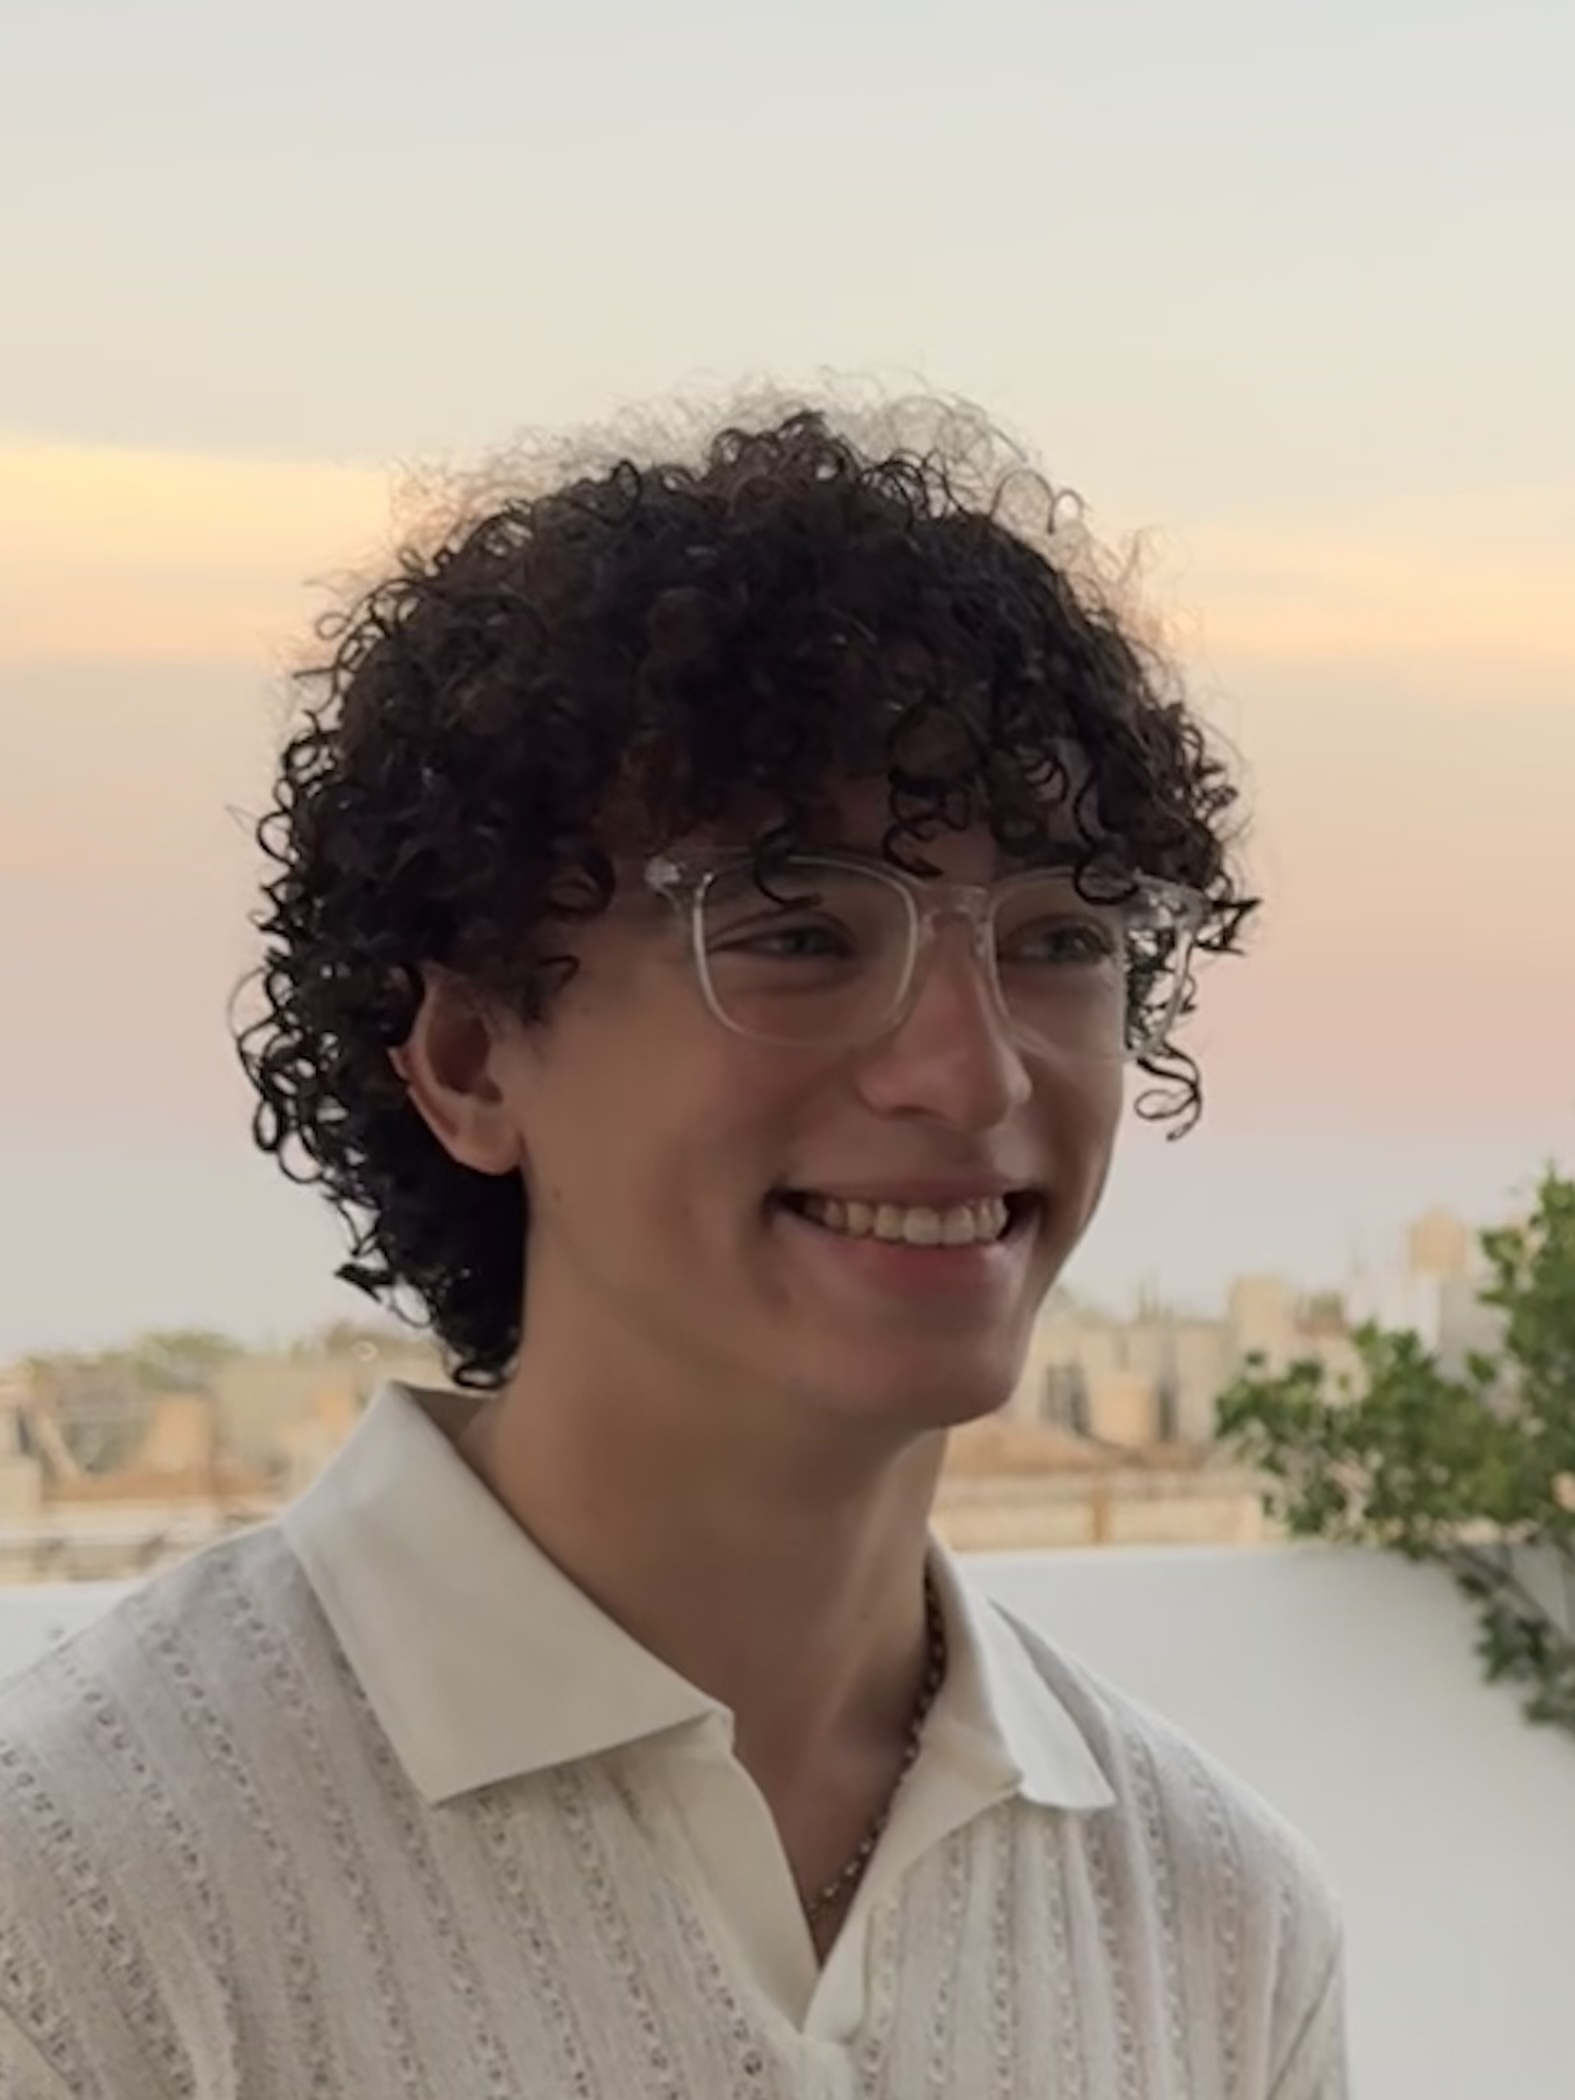
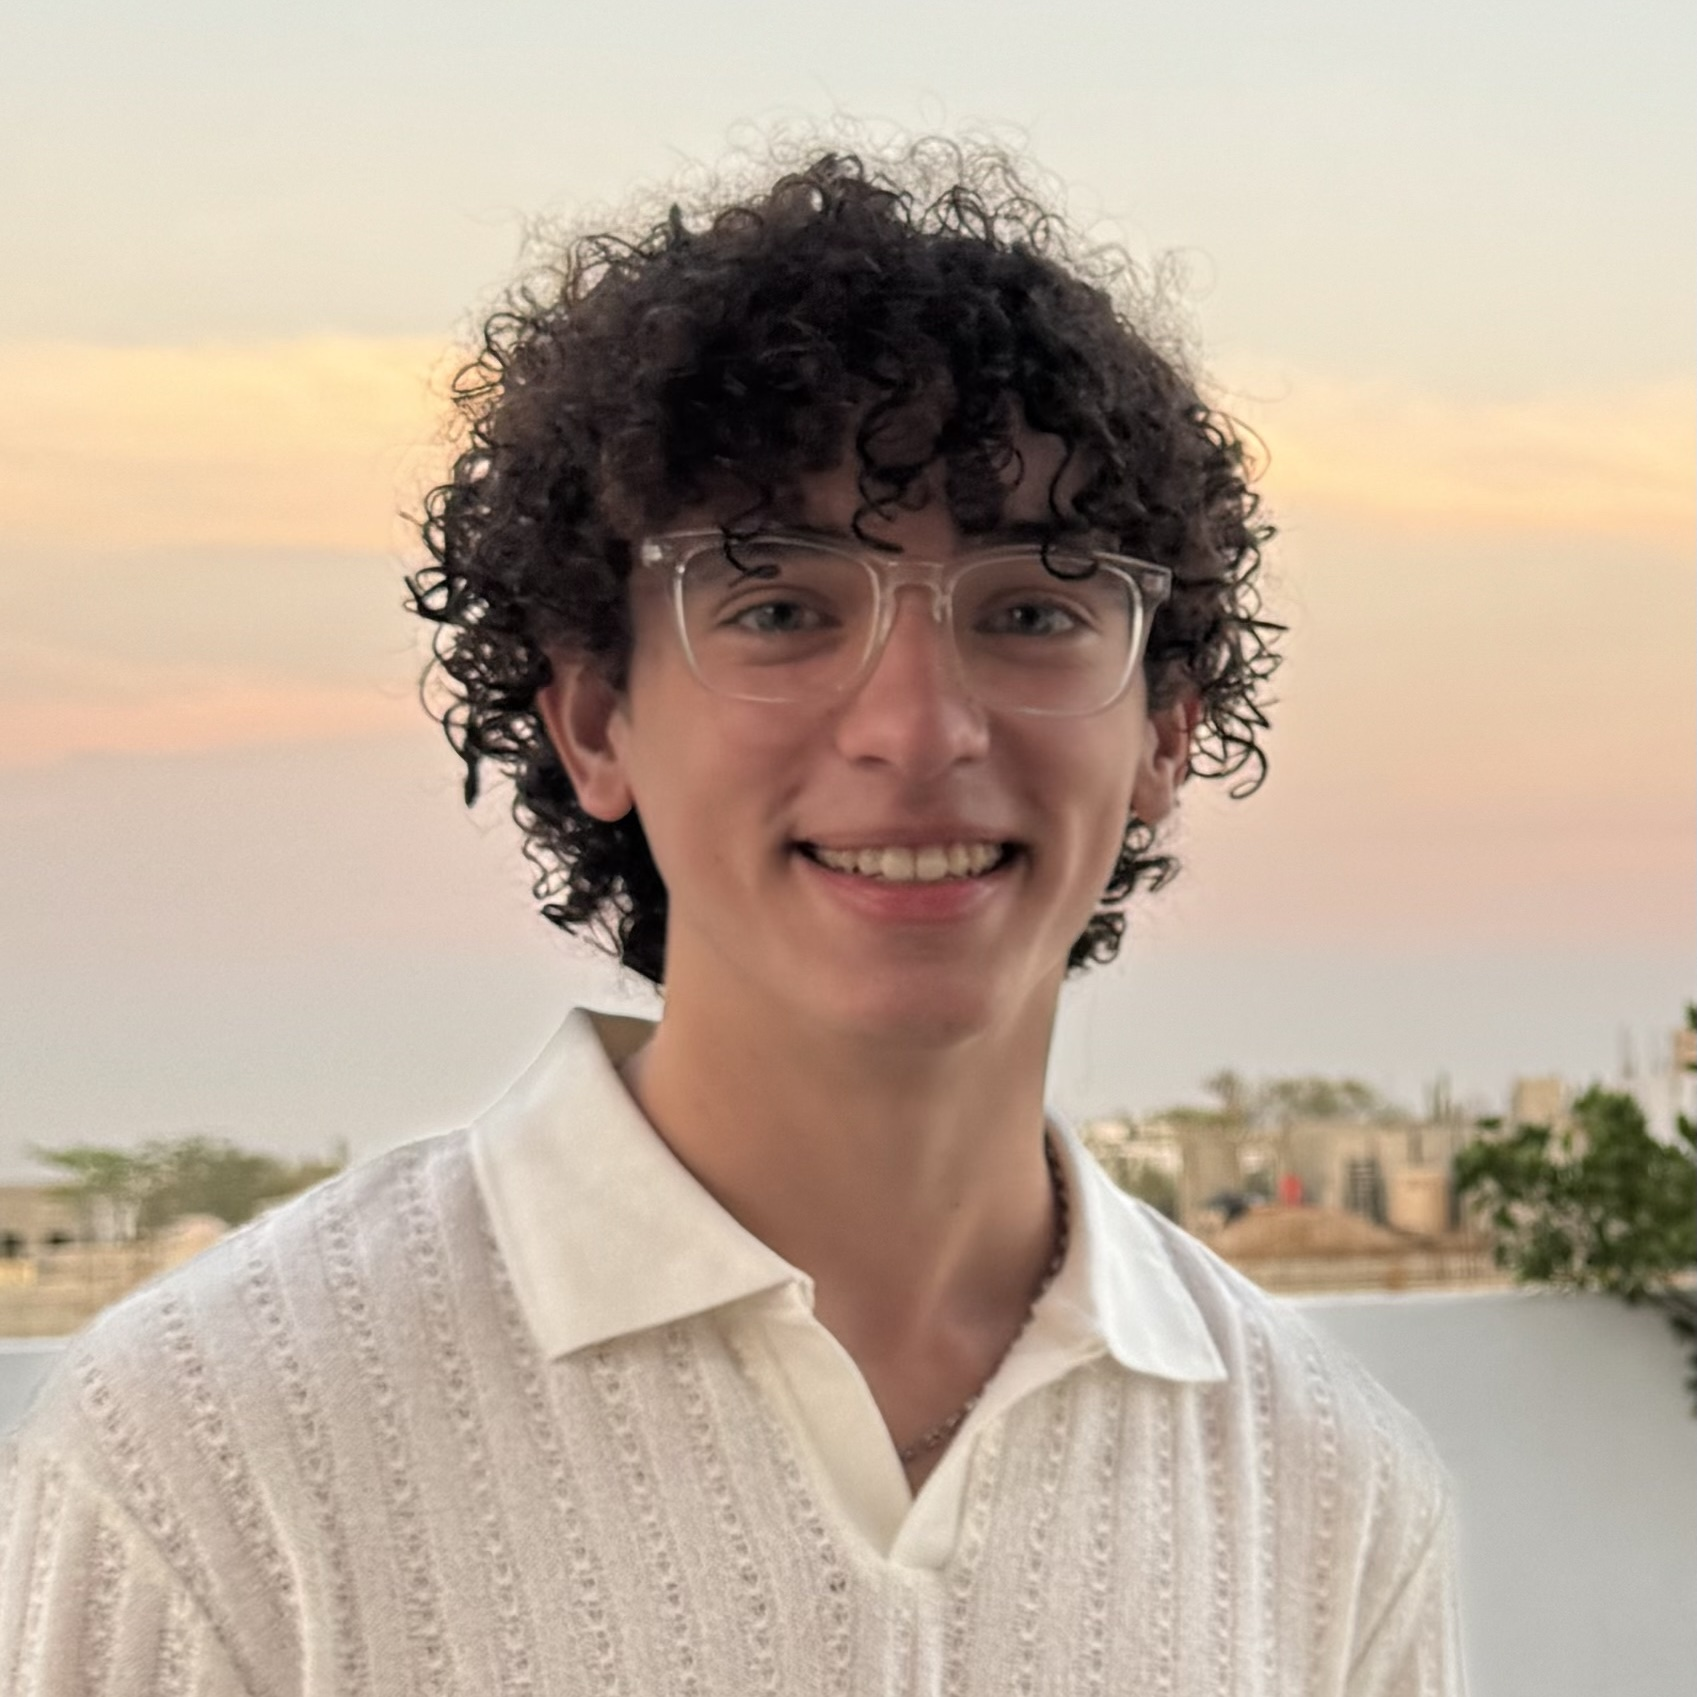
Added more text to the 'About Me', fixed the picture to make it circular, added the image and text for 'Research', and got rid of all the 'Learn More' buttons

diff --git a/index.html b/index.html
@@ -45,12 +45,22 @@
 										<header class="major">
 											<h2>Hi There!</h2>
 										</header>
-										<p>I am Diego Miura, a 2nd year at Yale University studying Astrophysics, with Certificates in 
-											Data Science and Energy Studies.
-										</p>
-										<ul class="actions">
+										<p>I am Diego Miura, a 2nd year at Yale University studying Astrophysics, with Certificates in Data Science and Energy Studies.</p>
+											
+										<p>I am currently doing near-infrared spectroscopy of high-redshift Fermi blazars using Hβ and Mg II λ2800 lines. 
+											My previous project involved spectroscopy of variable z < 1.5 AGN, using their properties such as mass and 
+											brightness to study the black hole-host galaxy mass evolution.</p>
+										
+										<p>This summer, I will be working with the DiRAC Institute at the University of Washington to find anomalous and 
+											rare objects using machine learning in large astronomical datasets.</p>
+										
+										<p>Beyond my research, I serve as a Project Manager for Elmseed Consulting and as the Events and Communications 
+											Chair for the Yale Astronomical Space and Student Society (YASSS). I also love astrophotography, and the 
+											picture in my header is a stacked image I took at the Leitner Observatory here at Yale!</p>
+
+										<!-- <ul class="actions">
 											<li><a href="generic.html" class="button">Learn More</a></li>
-										</ul>
+										</ul> -->
 									</div>
 									<span class="image"><img src="images/pic01.jpg" alt="" /></span>
 								</div>
@@ -59,36 +69,39 @@
 						<!-- First Section -->
 							<section id="first" class="main special">
 								<header class="major">
-									<h2>Magna veroeros</h2>
+									<h2>Research</h2>
 								</header>
+								<span class="image fit"><img src="images/Dumbbell_Nebula.png" alt="" /></span>
 								<ul class="features">
 									<li>
-										<span class="icon solid major style1 fa-code"></span>
-										<h3>Ipsum consequat</h3>
-										<p>Sed lorem amet ipsum dolor et amet nullam consequat a feugiat consequat tempus veroeros sed consequat.</p>
+										<!-- <span class="icon solid major style1 fa-code"></span> -->
+										<h3>Variable AGN Properties</h3>
+										<p>Analyzing properties of variability-selected z < 1.5 active galactic nuclei and studying their black hole mass – host mass relation. <a href="https://arxiv.org/abs/2503.06372#">Paper awaiting referee review. </a> </p> 
 									</li>
 									<li>
-										<span class="icon major style3 fa-copy"></span>
-										<h3>Amed sed feugiat</h3>
-										<p>Sed lorem amet ipsum dolor et amet nullam consequat a feugiat consequat tempus veroeros sed consequat.</p>
+										<!-- <span class="icon major style3 fa-copy"></span> -->
+										<h3>High z Fermi Blazars</h3>
+										<p>Near-infrared spectroscopy of high-redshift fermi blazars using Hβ and Mg II λ2800 lines. Project underway.</p>
 									</li>
 									<li>
-										<span class="icon major style5 fa-gem"></span>
-										<h3>Dolor nullam</h3>
-										<p>Sed lorem amet ipsum dolor et amet nullam consequat a feugiat consequat tempus veroeros sed consequat.</p>
+										<!-- <span class="icon major style5 fa-gem"></span> -->
+										<h3>Anomaly Detection using ML</h3>
+										<p>Testing an astronomical machine learning framework and searching for unusual objects in new data. Project underway.</p>
 									</li>
 								</ul>
+								<!-- 
 								<footer class="major">
 									<ul class="actions special">
 										<li><a href="generic.html" class="button">Learn More</a></li>
 									</ul>
 								</footer>
+								-->
 							</section>
 
 						<!-- Second Section -->
 							<section id="second" class="main special">
 								<header class="major">
-									<h2>Ipsum consequat</h2>
+									<h2>Coursework</h2>
 									<p>Donec imperdiet consequat consequat. Suspendisse feugiat congue<br />
 									posuere. Nulla massa urna, fermentum eget quam aliquet.</p>
 								</header>
@@ -115,26 +128,34 @@
 									</li>
 								</ul>
 								<p class="content">Nam elementum nisl et mi a commodo porttitor. Morbi sit amet nisl eu arcu faucibus hendrerit vel a risus. Nam a orci mi, elementum ac arcu sit amet, fermentum pellentesque et purus. Integer maximus varius lorem, sed convallis diam accumsan sed. Etiam porttitor placerat sapien, sed eleifend a enim pulvinar faucibus semper quis ut arcu. Ut non nisl a mollis est efficitur vestibulum. Integer eget purus nec nulla mattis et accumsan ut magna libero. Morbi auctor iaculis porttitor. Sed ut magna ac risus et hendrerit scelerisque. Praesent eleifend lacus in lectus aliquam porta. Cras eu ornare dui curabitur lacinia.</p>
+								
+								<!-- 
 								<footer class="major">
 									<ul class="actions special">
 										<li><a href="generic.html" class="button">Learn More</a></li>
 									</ul>
 								</footer>
+								-->
+
 							</section>
 
 						<!-- Get Started -->
 							<section id="cta" class="main special">
 								<header class="major">
-									<h2>Congue imperdiet</h2>
+									<h2>Projects</h2>
 									<p>Donec imperdiet consequat consequat. Suspendisse feugiat congue<br />
 									posuere. Nulla massa urna, fermentum eget quam aliquet.</p>
 								</header>
+
+								<!--
 								<footer class="major">
 									<ul class="actions special">
 										<li><a href="generic.html" class="button primary">Get Started</a></li>
 										<li><a href="generic.html" class="button">Learn More</a></li>
 									</ul>
 								</footer>
+								-->
+
 							</section>
 
 					</div>
